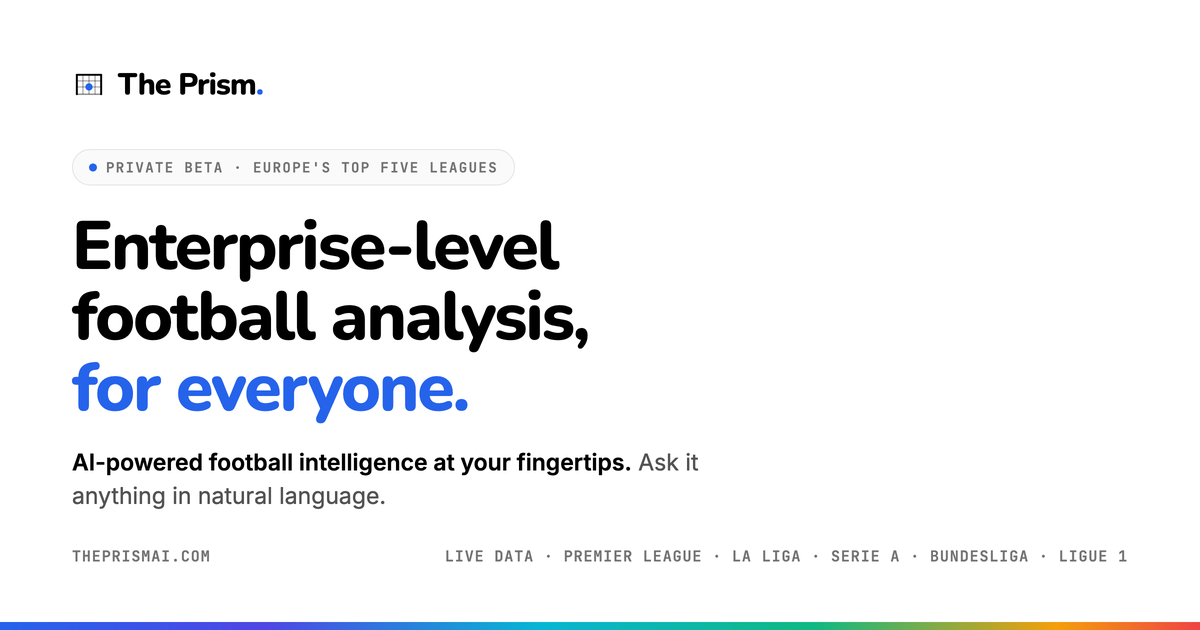
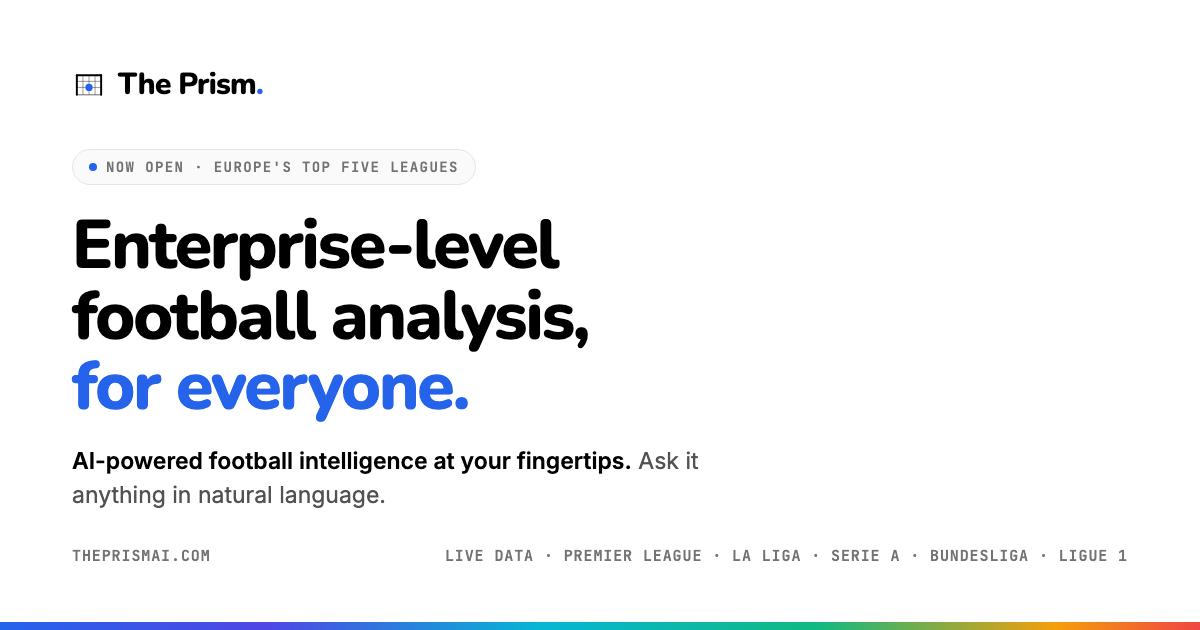
Share card: Now open, not Private beta
The card a link to the site unfurls into (WhatsApp, iMessage, X) still
said Private beta. Redrawn from og-card.html the same way as before,
headless Chrome at 1200x630, with only the label changed. The page now
asks for og.png?v=2 so apps that kept the old picture fetch the new one.

diff --git a/index.html b/index.html
@@ -14,12 +14,12 @@
   <meta property="og:title" content="The Prism" />
   <meta property="og:description" content="Ask it anything about football. It goes and gets the numbers." />
   <meta property="og:url" content="https://www.theprismai.com/" />
-  <meta property="og:image" content="https://www.theprismai.com/og.png" />
+  <meta property="og:image" content="https://www.theprismai.com/og.png?v=2" />
   <meta property="og:image:width" content="1200" />
   <meta property="og:image:height" content="630" />
   <meta property="og:image:alt" content="The Prism: enterprise-level football analysis, for everyone." />
   <meta name="twitter:card" content="summary_large_image" />
-  <meta name="twitter:image" content="https://www.theprismai.com/og.png" />
+  <meta name="twitter:image" content="https://www.theprismai.com/og.png?v=2" />
   <meta name="twitter:title" content="The Prism" />
   <meta name="twitter:description" content="Ask it anything about football. It goes and gets the numbers." />
   <script defer data-domain="theprismai.com" src="https://plausible.io/js/script.js"></script>

diff --git a/og-card.html b/og-card.html
@@ -41,7 +41,7 @@
     </svg>
     <span class="brand-name">The Prism<span class="brand-dot">.</span></span>
   </div>
-  <span class="eyebrow"><i></i> Private beta · Europe's top five leagues</span>
+  <span class="eyebrow"><i></i> Now open · Europe's top five leagues</span>
   <h1>Enterprise-level football analysis, <span>for everyone.</span></h1>
   <p><b>AI-powered football intelligence at your fingertips.</b> Ask it anything in natural language.</p>
   <div class="foot"><span>theprismai.com</span><span>Live data · Premier League · La Liga · Serie A · Bundesliga · Ligue 1</span></div>
